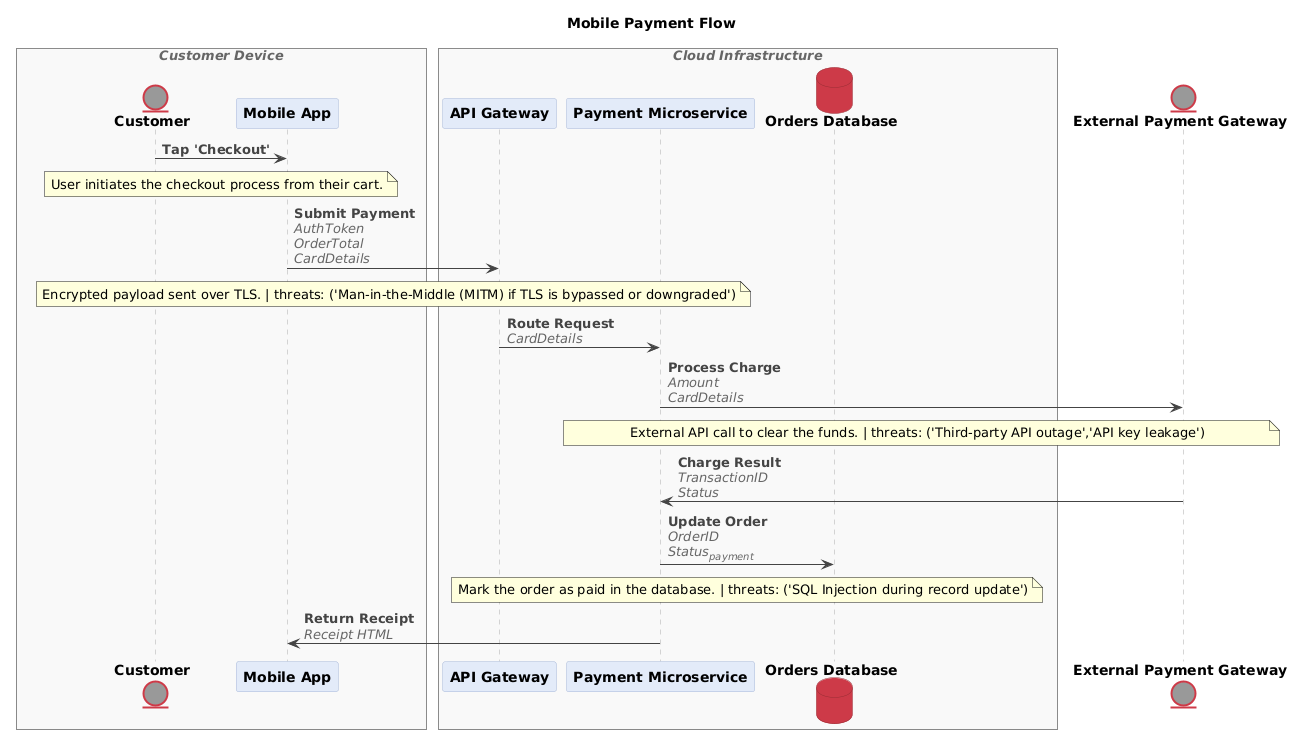
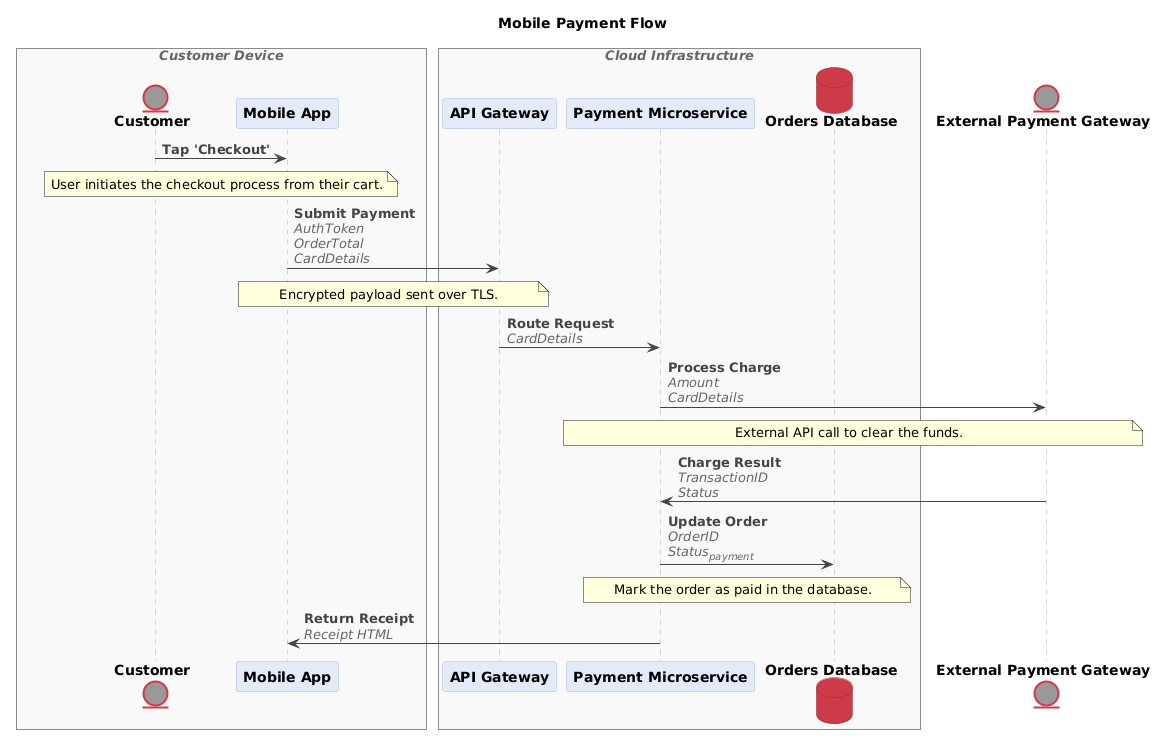
feat: add support for STRIDE thread modelling

diff --git a/dataflow.ts b/dataflow.ts
@@ -227,6 +227,45 @@ class Parser {
   }
 }
 
+// STRIDE Threat Modeling Support
+type ParsedThreat = {
+  isStride: boolean;
+  cats?: string;
+  risk?: string;
+  score?: string;
+  desc?: string;
+  raw: string;
+  from?: string;
+  to?: string;
+};
+
+function parseThreat(t: string, from?: string, to?: string): ParsedThreat {
+  // Matches: [S, T] [High] [8.5] Description  OR  [S, T] [High] Description
+  const m = t.match(/^\[(.*?)\]\s+\[(.*?)\](?:\s+\[(.*?)\])?\s+(.*)$/);
+  if (m) {
+    return { isStride: true, cats: m[1], risk: m[2], score: m[3] || "N/A", desc: m[4], raw: t, from, to };
+  }
+  return { isStride: false, raw: t, from, to };
+}
+
+const getRiskColorGV = (risk: string) => {
+  const r = risk.toLowerCase();
+  if (r === 'critical') return '#982C35';
+  if (r === 'high') return '#CD3B48';
+  if (r === 'medium') return '#D97706';
+  if (r === 'low') return '#059669';
+  return '#444444';
+};
+
+const getRiskColorPUML = (risk: string) => {
+  const r = risk.toLowerCase();
+  if (r === 'critical') return '#FFB3B3';
+  if (r === 'high') return '#FFCCCC';
+  if (r === 'medium') return '#FFE6CC';
+  if (r === 'low') return '#E6FFCC';
+  return '#EEEEEE';
+};
+
 const str = (v: Value | undefined): string =>
   v === undefined ? "" : typeof v === "string" ? v : JSON.stringify(v);
 const label = (a: Attrs, fallback: string) => str(a.title) || fallback;
@@ -256,20 +295,38 @@ function generateReport(d: Diagram): string {
   if (desc) lines.push(`${desc}\n`);
 
   const getList = (v: Value | undefined) => v === undefined ? [] : Array.isArray(v) ? v : [v];
+  const allThreats: ParsedThreat[] = [];
   
-  const threats = getList(d.attrs.threats).map(String);
-  if (threats.length > 0) {
+  getList(d.attrs.threats).map(String).forEach(t => allThreats.push(parseThreat(t, "Global", "Architecture")));
+  d.flows.forEach(f => {
+    const fromName = label(d.nodes.find(n => n.id === f.from)?.attrs || {}, f.from);
+    const toName = label(d.nodes.find(n => n.id === f.to)?.attrs || {}, f.to);
+    getList(f.attrs.threats).map(String).forEach(t => allThreats.push(parseThreat(t, fromName, toName)));
+  });
+
+  const strideThreats = allThreats.filter(t => t.isStride);
+  if (strideThreats.length > 0) {
+    strideThreats.sort((a, b) => (parseFloat(b.score!) || 0) - (parseFloat(a.score!) || 0));
+    lines.push(`## STRIDE Threat Matrix\n`);
+    lines.push(`| ID | Categories | Risk | Score | Location | Description |`);
+    lines.push(`|---|---|---|---|---|---|`);
+    strideThreats.forEach((t, i) => {
+      lines.push(`| T-${i + 1} | **${t.cats}** | ${t.risk} | ${t.score} | ${t.from} &rarr; ${t.to} | ${t.desc} |`);
+    });
+    lines.push("");
+  }
+
+  const globalNonStride = getList(d.attrs.threats).map(String).map(t => parseThreat(t)).filter(t => !t.isStride);
+  if (globalNonStride.length > 0) {
     lines.push(`## Global Threats`);
-    threats.forEach(t => lines.push(`- **${t}**`));
+    globalNonStride.forEach(t => lines.push(`- **${t.raw}**`));
     lines.push("");
   }
 
   lines.push(`## Data Flows\n`);
   d.flows.forEach((f, index) => {
-    const fromNode = d.nodes.find(n => n.id === f.from);
-    const toNode = d.nodes.find(n => n.id === f.to);
-    const fromName = label(fromNode?.attrs || {}, f.from);
-    const toName = label(toNode?.attrs || {}, f.to);
+    const fromName = label(d.nodes.find(n => n.id === f.from)?.attrs || {}, f.from);
+    const toName = label(d.nodes.find(n => n.id === f.to)?.attrs || {}, f.to);
     const op = str(f.attrs.operation) || "Flow";
     
     lines.push(`### ${index + 1}. ${fromName} -> ${toName}: ${op}`);
@@ -279,17 +336,21 @@ function generateReport(d: Diagram): string {
       lines.push(`- **Data Exchanged:** ${data.join(", ")}`);
     }
     
-    const fThreats = getList(f.attrs.threats).map(String);
+    const fThreats = getList(f.attrs.threats).map(String).map(t => parseThreat(t));
     if (fThreats.length > 0) {
-      lines.push(`- **Identified Threats:** ${fThreats.join(", ")}`);
+      lines.push(`- **Identified Threats:**`);
+      fThreats.forEach(t => {
+        if (t.isStride) {
+          lines.push(`  - <span style="color:${getRiskColorGV(t.risk!)}; font-weight:bold;">[${t.risk}]</span> **[${t.cats}]** (Score: ${t.score}) - ${t.desc}`);
+        } else {
+          lines.push(`  - ${t.raw}`);
+        }
+      });
     }
     
     const fDesc = str(f.attrs.description);
-    if (fDesc) {
-      lines.push(`\n**Description:**\n${fDesc}\n`);
-    } else {
-      lines.push("");
-    }
+    if (fDesc) lines.push(`\n**Description:**\n${fDesc}\n`);
+    else lines.push("");
   });
 
   return lines.join("\n");
@@ -298,10 +359,13 @@ function generateReport(d: Diagram): string {
 function render(d: Diagram, dataflow: boolean): string {
   const lines: string[] = [];
   const title = str(d.attrs.title);
-  const diagramExtra = extras(d.attrs, ["title"]);
+  const diagramExtra = extras(d.attrs, ["title", "threats"]);
+  const getList = (v: Value | undefined) => v === undefined ? [] : Array.isArray(v) ? v : [v];
   
   if (dataflow) {
+    // ----------------------------------------------------
     // Graphviz DFD Rendering
+    // ----------------------------------------------------
     let dfdFlowIndex = 1;
     lines.push('digraph G {');
     lines.push('  rankdir=TB;');
@@ -345,22 +409,31 @@ function render(d: Diagram, dataflow: boolean): string {
     const seenAsSource = new Set<string>();
 
     for (const f of d.flows) {
-      const getList = (v: Value | undefined) => v === undefined ? [] : Array.isArray(v) ? v : [v];
       const opList = getList(f.attrs.operation).map(String);
       const dataList = getList(f.attrs.data).map(String);
+      const fThreats = getList(f.attrs.threats).map(String).map(t => parseThreat(t));
+      
+      const strideTags = fThreats.filter(t => t.isStride).map(t => 
+        `<font face="Helvetica" color="${getRiskColorGV(t.risk!)}"><b>[${t.cats}]</b></font>`
+      );
 
       let htmlLabel = "";
-      if (opList.length > 0 || dataList.length > 0) {
-        const prefix = `<font color="#3182ce">(${dfdFlowIndex})</font> `;
+      if (opList.length > 0 || dataList.length > 0 || strideTags.length > 0) {
+        const prefix = (opList.length > 0 || dataList.length > 0) ? `<font color="#3182ce">(${dfdFlowIndex})</font> ` : "";
         if (opList.length > 0) {
           opList[0] = prefix + gv(opList[0]);
-        } else {
+        } else if (dataList.length > 0) {
           dataList[0] = prefix + gv(dataList[0]);
         }
-        dfdFlowIndex++;
+        if (opList.length > 0 || dataList.length > 0) dfdFlowIndex++;
         
         const combined = [...opList.map(o => o.includes("<font") ? o : gv(o)), ...dataList.map(gv)];
-        htmlLabel = `<<table border="0" cellborder="0" cellpadding="2"><tr><td><font face="Helvetica">${combined.join('</font></td></tr><tr><td><font face="Helvetica">')}</font></td></tr></table>>`;
+        
+        let tableRows = combined.map(c => `<tr><td><font face="Helvetica">${c}</font></td></tr>`).join('');
+        if (strideTags.length > 0) {
+          tableRows += `<tr><td>${strideTags.join(" ")}</td></tr>`;
+        }
+        htmlLabel = `<<table border="0" cellborder="0" cellpadding="2">${tableRows}</table>>`;
       }
       
       const fromRank = getRank(getKind(f.from));
@@ -375,7 +448,9 @@ function render(d: Diagram, dataflow: boolean): string {
     lines.push('}');
     return lines.join('\n') + '\n';
   } else {
+    // ----------------------------------------------------
     // PlantUML Sequence Rendering
+    // ----------------------------------------------------
     lines.push("@startuml");
     lines.push("skinparam shadowing false");
     lines.push("skinparam defaultFontName sans-serif");
@@ -395,7 +470,6 @@ function render(d: Diagram, dataflow: boolean): string {
     }
 
     const formatFlowText = (opV: Value | undefined, dataV: Value | undefined): string => {
-      const getList = (v: Value | undefined) => v === undefined ? [] : Array.isArray(v) ? v : [v];
       let opList = getList(opV).map(String);
       let dataList = getList(dataV).map(String);
 
@@ -429,13 +503,20 @@ function render(d: Diagram, dataflow: boolean): string {
       let text = formatFlowText(f.attrs.operation, f.attrs.data);
       if (!text) text = pu("Flow");
       
-      const desc = str(f.attrs.description),
-        x = extras(f.attrs, ["operation", "data", "description"]);
-        
       lines.push(`  ${f.from} -> ${f.to}: ${text}`);
       
+      const desc = str(f.attrs.description),
+            x = extras(f.attrs, ["operation", "data", "description", "threats"]);
+            
       if (desc || x.length) {
-        lines.push(`note over ${f.from},${f.to}: ${pu([desc, ...x].filter(Boolean).join(" | "))}`);
+        lines.push(`  note over ${f.from},${f.to}: ${pu([desc, ...x].filter(Boolean).join(" | "))}`);
+      }
+
+      const strideThreats = getList(f.attrs.threats).map(String).map(t => parseThreat(t)).filter(t => t.isStride);
+      if (strideThreats.length > 0) {
+        const color = getRiskColorPUML(strideThreats[0].risk!);
+        const threatLines = strideThreats.map(t => `**[${pu(t.cats!)}] ${pu(t.risk!)} (${pu(t.score!)})**\\n${pu(t.desc!)}`).join('\\n---\\n');
+        lines.push(`  note over ${f.from},${f.to} ${color}: ${threatLines}`);
       }
     }
 

diff --git a/examples/stride-report.md b/examples/stride-report.md
@@ -1,0 +1,41 @@
+# Authentication Flow (STRIDE Example)
+
+This diagram illustrates a user login process to highlight 
+the new integrated STRIDE Threat Modeling annotations.
+
+## STRIDE Threat Matrix
+
+| ID | Categories | Risk | Score | Location | Description |
+|---|---|---|---|---|---|
+| T-1 | **S, I** | Critical | 9.2 | Web Browser &rarr; Auth Gateway | Credential stuffing attack on the public facing login portal. |
+| T-2 | **E, D** | High | 8.1 | Auth Gateway &rarr; Redis Session Store | Redis instance exposed without password authentication. |
+| T-3 | **T, I** | High | 7.5 | Web Browser &rarr; Auth Gateway | TLS Downgrade attack leading to MITM password interception. |
+| T-4 | **S** | Medium | 6.1 | Auth Gateway &rarr; Web Browser | Cookie missing HttpOnly and Secure flags, susceptible to XSS extraction. |
+| T-5 | **I** | Medium | 5.4 | Auth Gateway &rarr; Redis Session Store | Weak entropy used for SessionID generation. |
+| T-6 | **D** | Low | 3.0 | Global &rarr; Architecture | Public endpoint discovery via automated scanning |
+| T-7 | **S** | Medium | N/A | Global &rarr; Architecture | Application layer DoS on the login route |
+
+## Data Flows
+
+### 1. Web Browser -> Auth Gateway: POST /login
+- **Data Exchanged:** Username, Password
+- **Identified Threats:**
+  - <span style="color:#982C35; font-weight:bold;">[Critical]</span> **[S, I]** (Score: 9.2) - Credential stuffing attack on the public facing login portal.
+  - <span style="color:#CD3B48; font-weight:bold;">[High]</span> **[T, I]** (Score: 7.5) - TLS Downgrade attack leading to MITM password interception.
+
+**Description:**
+User submits credentials over TLS.
+
+### 2. Auth Gateway -> Redis Session Store: Create Session
+- **Data Exchanged:** SessionID, JWT Token
+- **Identified Threats:**
+  - <span style="color:#CD3B48; font-weight:bold;">[High]</span> **[E, D]** (Score: 8.1) - Redis instance exposed without password authentication.
+  - <span style="color:#D97706; font-weight:bold;">[Medium]</span> **[I]** (Score: 5.4) - Weak entropy used for SessionID generation.
+
+**Description:**
+Store the active session mapping.
+
+### 3. Auth Gateway -> Web Browser: Return 200 OK
+- **Data Exchanged:** Set-Cookie: session_id
+- **Identified Threats:**
+  - <span style="color:#D97706; font-weight:bold;">[Medium]</span> **[S]** (Score: 6.1) - Cookie missing HttpOnly and Secure flags, susceptible to XSS extraction.

diff --git a/examples/complex-report.md b/examples/complex-report.md
@@ -16,7 +16,8 @@ User initiates the checkout process from their cart.
 
 ### 2. Mobile App -> API Gateway: Submit Payment
 - **Data Exchanged:** AuthToken, OrderTotal, CardDetails
-- **Identified Threats:** Man-in-the-Middle (MITM) if TLS is bypassed or downgraded
+- **Identified Threats:**
+  - Man-in-the-Middle (MITM) if TLS is bypassed or downgraded
 
 **Description:**
 Encrypted payload sent over TLS.
@@ -26,7 +27,9 @@ Encrypted payload sent over TLS.
 
 ### 4. Payment Microservice -> External Payment Gateway: Process Charge
 - **Data Exchanged:** Amount, CardDetails
-- **Identified Threats:** Third-party API outage, API key leakage
+- **Identified Threats:**
+  - Third-party API outage
+  - API key leakage
 
 **Description:**
 External API call to clear the funds.
@@ -36,7 +39,8 @@ External API call to clear the funds.
 
 ### 6. Payment Microservice -> Orders Database: Update Order
 - **Data Exchanged:** OrderID, Status<sub>payment</sub>
-- **Identified Threats:** SQL Injection during record update
+- **Identified Threats:**
+  - SQL Injection during record update
 
 **Description:**
 Mark the order as paid in the database.
